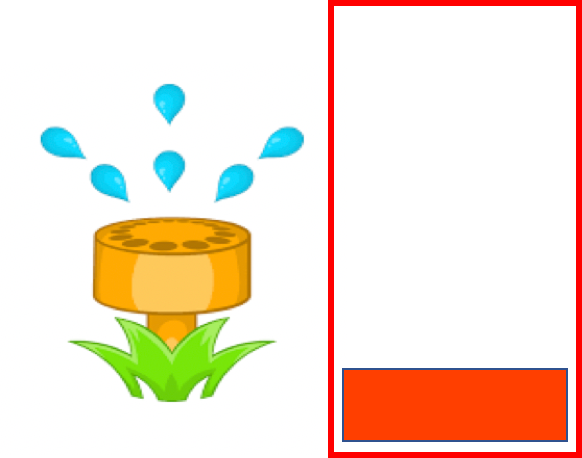
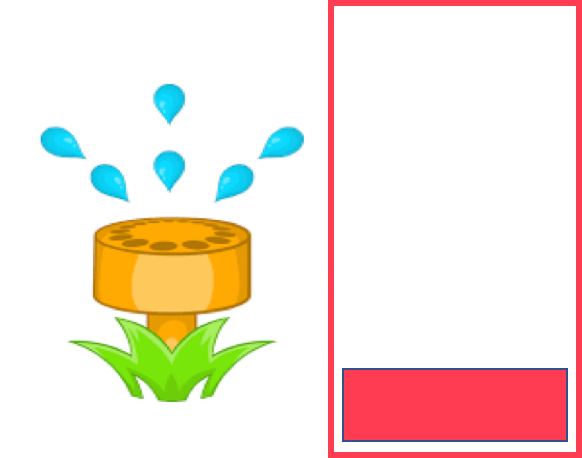
update graph colors

Changed region(s): [[0.5567, 0.0, 1.0, 1.0]]

diff --git a/static/js/plot_values_chart.js b/static/js/plot_values_chart.js
@@ -30,6 +30,9 @@ var datapoints = 0;  // used by set marker on last value
 var values_min;
 var values_max;
 
+var sensor_max = 800
+var nb_intervals = 6
+
 //let TIME_length = 0;
 async function getActiveIDs() {
     const response = await fetch(active_url);
@@ -137,34 +140,48 @@ async function plotData() {
         /* filling semi-circle with color based on last sensor value */
         function fill_circle(last_value) {
             soil_moisture = last_value
-            if (soil_moisture >= 0 && soil_moisture <= 196) {
+            if (soil_moisture >= 0 && soil_moisture <= (sensor_max/nb_intervals)) {
                 //semi_circle.style.borderColor = "lightblue";
                 //semi_circle.style.display = "block";
 
                 //insight.innerHTML = 'very wet';
                 //insight.style.display = "block";
             }
-            else if (soil_moisture >= 196 && soil_moisture <= 390) {
+            else if (soil_moisture > (sensor_max/nb_intervals) && soil_moisture <= (sensor_max/nb_intervals)*2) {
                 //semi_circle.style.borderColor = "green";
                 //semi_circle.style.display = "block";
 
                 //insight.innerHTML = 'wet';
                 //insight.style.display = "block";
             }
-            else if (soil_moisture >= 391 && soil_moisture <= 585) {
+            else if (soil_moisture > (sensor_max/nb_intervals)*2 && soil_moisture <= (sensor_max/nb_intervals)*3) {
                 //semi_circle.style.borderColor = "orange";
                 //semi_circle.style.display = "block";
 
                 //insight.innerHTML = 'dry';
                 //insight.style.display = "block";
             }
-            else if (soil_moisture >= 586 && soil_moisture <= 780) {
+            else if (soil_moisture >= (sensor_max/nb_intervals)*3 && soil_moisture <= (sensor_max/nb_intervals)*4) {
                 //semi_circle.style.borderColor = "red";
                 //semi_circle.style.display = "block";
 
                 //insight.innerHTML = 'very dry';
                 //insight.style.display = "block";
             }
+            else if (soil_moisture > (sensor_max/nb_intervals)*4 && soil_moisture <= (sensor_max/nb_intervals)*5) {
+                //semi_circle.style.borderColor = "red";
+                //semi_circle.style.display = "block";
+
+                //insight.innerHTML = 'very dry';
+                //insight.style.display = "block";
+            }  
+            else if (soil_moisture > (sensor_max/nb_intervals)*5) {
+                //semi_circle.style.borderColor = "red";
+                //semi_circle.style.display = "block";
+
+                //insight.innerHTML = 'very dry';
+                //insight.style.display = "block";
+            }                       
         }
 
         /* *** */
@@ -201,36 +218,54 @@ async function plotData() {
                             text: ""
                         },
                         y: 0,
-                        y2: 195,
-                        fillColor: "#00E396"
+                        y2: (sensor_max/nb_intervals),
+                        fillColor: "#139FEB"
                     },
                     {
                         label: {
                             //text: "wet"
                             text: ""
                         },
-                        y: 196,
-                        y2: 390,
-                        fillColor: "#90EE7E"
+                        y: (sensor_max/nb_intervals)+1,
+                        y2: (sensor_max/nb_intervals)*2,
+                        fillColor: "#15A43E"
                     },
                     {
                         label: {
                             //text: "dry"
                             text: ""
                         },
-                        y: 391,
-                        y2: 585,
-                        fillColor: "#FF9800"
+                        y: (sensor_max/nb_intervals)*2+1,
+                        y2: (sensor_max/nb_intervals)*3,
+                        fillColor: "#9AC97B"
                     },
                     {
                         label: {
                             //text: "very dry"
                             text: ""
                         },
-                        y: 586,
-                        y2: 780,
-                        fillColor: "#FF4560"
-                    }
+                        y: (sensor_max/nb_intervals)*3+1,
+                        y2: (sensor_max/nb_intervals)*4,
+                        fillColor: "#FDC009"
+                    },
+                    {
+                        label: {
+                            //text: "very dry"
+                            text: ""
+                        },
+                        y: (sensor_max/nb_intervals)*4+1,
+                        y2: (sensor_max/nb_intervals)*5,
+                        fillColor: "#FB2041"
+                    },
+                    {
+                        label: {
+                            //text: "very dry"
+                            text: ""
+                        },
+                        y: (sensor_max/nb_intervals)*5+1,
+                        y2: sensor_max,
+                        fillColor: "#D1000F"
+                    }                                        
                 ]
             },
             stroke: {
@@ -249,7 +284,7 @@ async function plotData() {
                 show: true
             },
             title: {
-                text: "Soil Moisture Values",
+                text: "Sensor values",
                 align: "left"
             },
             series: [

diff --git a/templates/intel-irris-dashboard.html b/templates/intel-irris-dashboard.html
@@ -70,15 +70,15 @@
 		<!-- <p id="soil_condition" style="text-align:center; white-space: nowrap"><b>Soil condition is {{ soil_condition }}</b></p> -->
 		</div>
     <!-- <p id="last_value_insight" style="text-align:center; white-space: nowrap"><span id="insight"></span></p> -->
-    <br><br>
+
     <p id="no_sensor_error">Oops! Select a sensor id of the current device to see its data and compute the index value
     </p>
     <p id="sensor_id_error">Oops! The sensor id <span id="sensor_id"></span> seems to no longer be in the device.</p>
     <p id="sensor_id_error_p2">Select a new sensor id from the Device Manager</p>
+    <p style="text-align: center;">Colors on graph are only indicative</p>
     <div id="values_chart" class="plot_center">
       <script type="text/javascript" src="{{ url_for('static', filename='js/plot_values_chart.js') }}"></script>
     </div>
-    <br>
     {% endif %}
   </div>
 </body>
